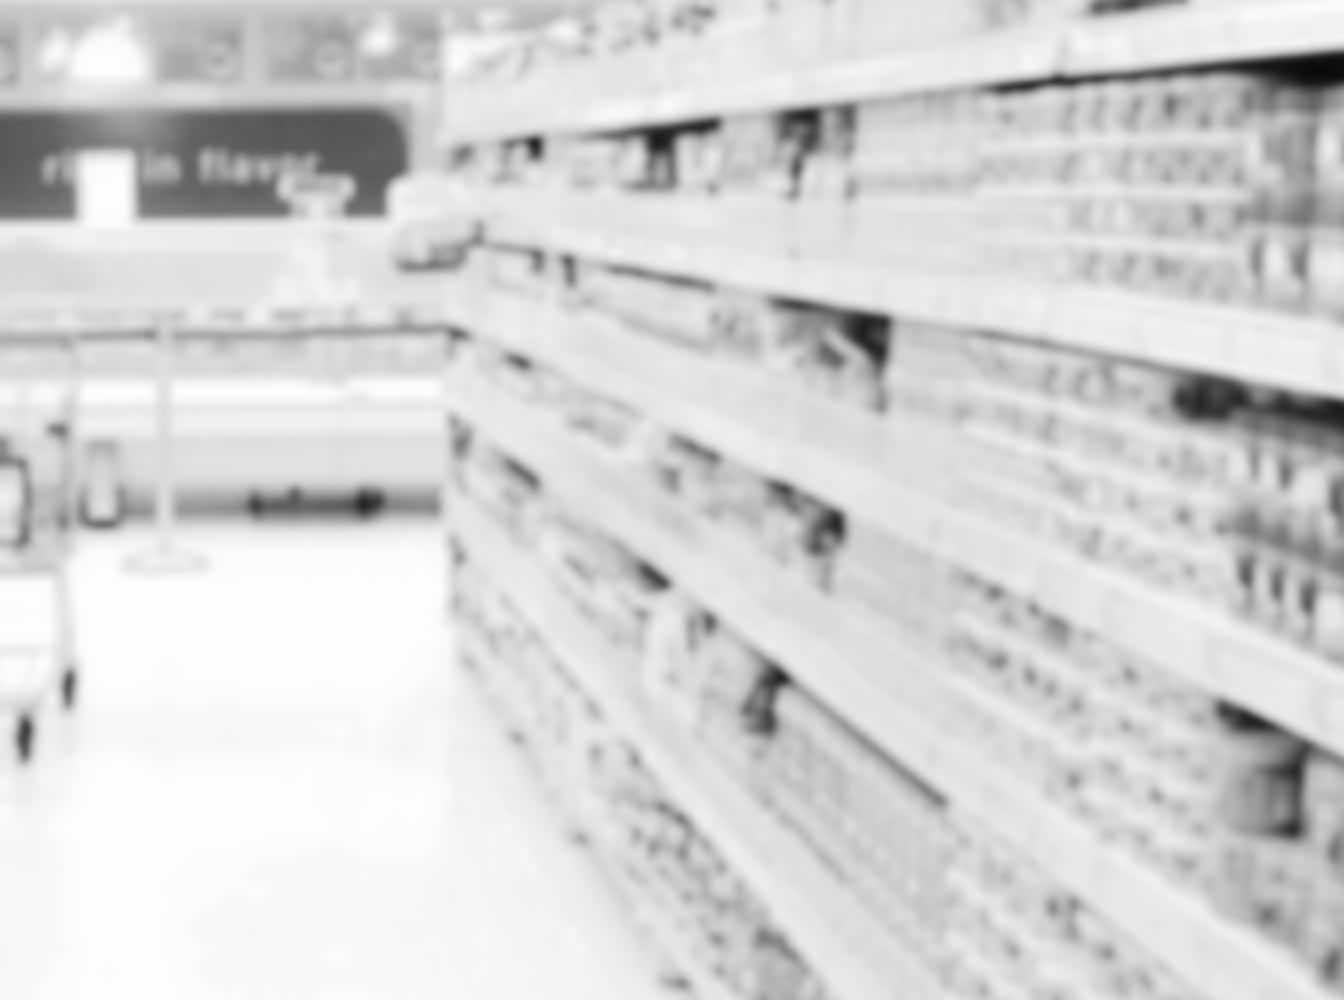
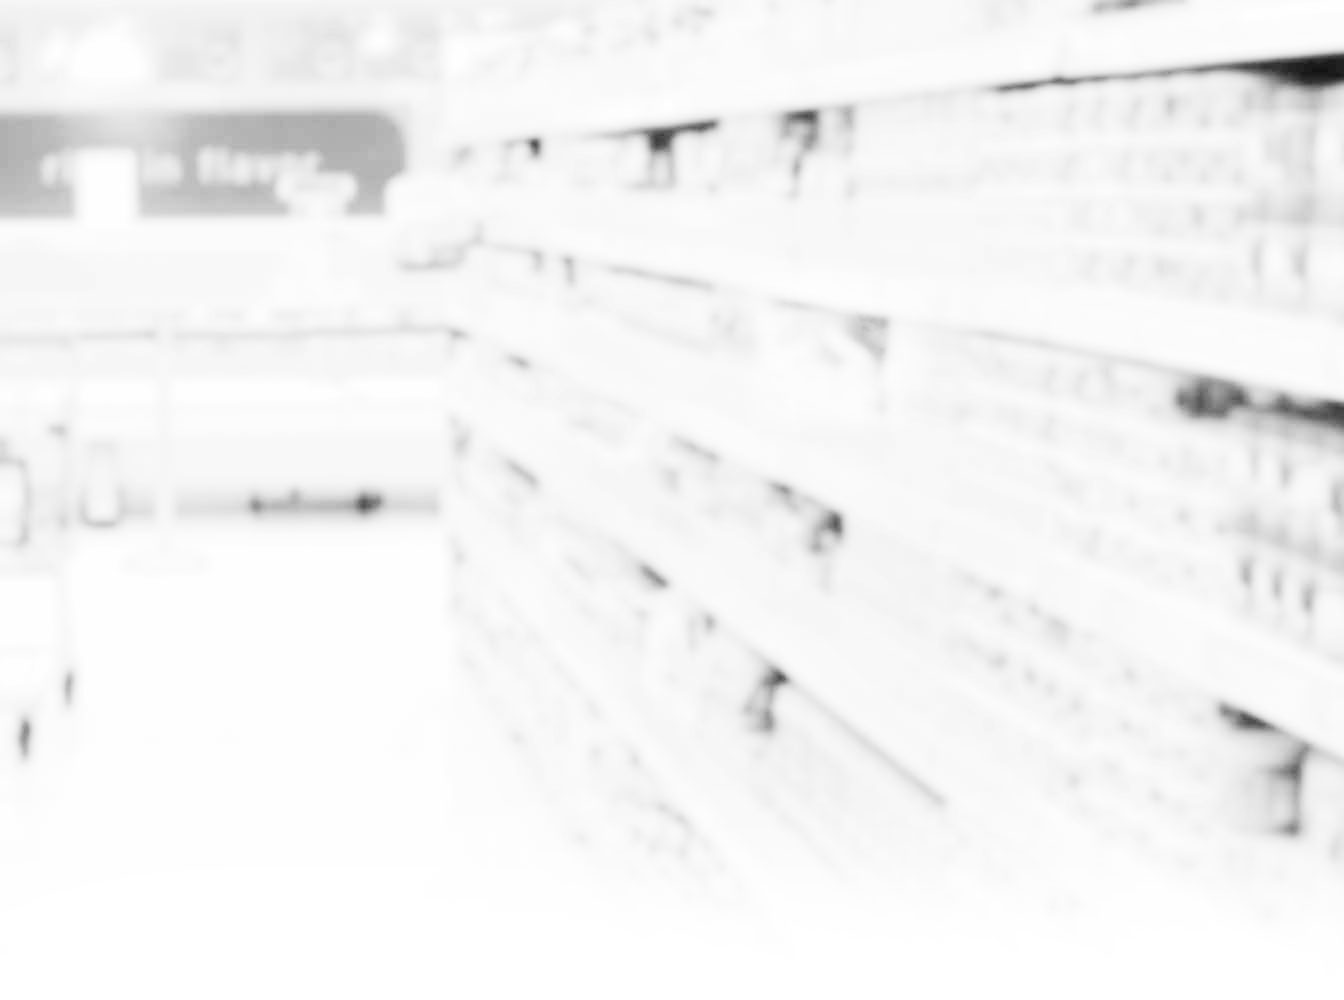
finished 404 page

diff --git a/dot com/css/styles.css b/dot com/css/styles.css
@@ -289,7 +289,7 @@
 
 	/* HOMEPAGE */
 
-		body.index {
+		body.index, body.error-404 {
 			background: url('../img/bg1.jpg') #fff no-repeat fixed;
 			background-size: 100%;
 		}
@@ -490,6 +490,66 @@
 		#videos article { display: block; float: left; margin: 24px auto; }
 
 
+	/* ERROR PAGES */
+
+		div.aisle { 
+			text-align: center;
+			position: relative;
+			top: -50px;
+			z-index: 10;
+		}
+		.aisle-header {
+			display: block;
+			display: block;
+			width: 400px;
+			height: 202px;
+			margin: auto;
+			text-indent: -900%;
+		}
+			#aisle-404 {
+				background: url('../img/error-404.png') center center no-repeat;
+				background-size: 400px;
+			}
+		.error-page h2 { 
+			background: #026951;
+			width: 400px;
+			padding: 12px 24px;
+			border: 1px solid #026951;
+			color: #fff;
+			margin: auto;
+			font-size: 1.2em;
+			box-shadow: 0 2px 2px rgba(0,0,0,0.3);
+			position: relative;
+			top: -50px;
+		}
+
+		.error-page p.explained { margin: 24px; text-align: center; font-size: 1.25em; margin-top: -20px; }
+
+
+	/* body search */
+
+		#site_search { 
+			border: 1px solid #666;
+			background: url('../img/searchicon.png') 12px center no-repeat #fff;
+			padding: 24px 24px 24px 48px;
+			margin: 0 8px 0 0;
+			font-size: 2em;
+		}
+			#site_search:focus { border: 2px solid #666; }
+		.body-search .button { 
+			border-color: #666;
+			padding-top: 10px;
+			font-size: 2em;
+			height: 50px;
+			background: #b3181d;
+		}
+			.body-search .button:hover, .body-search .button-active { background: #8c0f0f; border: 2px solid #666; height: 51px; }
+
+		body.error #main-footer {
+			background: 0; border: 0;
+		}
+
+
 
 
 
@@ -511,7 +571,13 @@
 /* ========================================== */
 
 @media only screen and (-webkit-min-device-pixel-ratio: 2) { 
+	body.error-404 div.aisle #aisle-404 {
+		background: url('../img/error-404@2x.png') center center no-repeat;
+		background-size: 400px;
+	}
+	#error-404 div.aisle img { visibility: hidden;}
 
+	#site_search { background: url('../img/searchicon@2x.png') 12px center no-repeat #fff; background-size: 17px; }
 }
 
 @media only screen and (device-width: 320px) and (-webkit-min-device-pixel-ratio: 2) {

diff --git a/dot com/js/scripts.js b/dot com/js/scripts.js
@@ -1,7 +1,67 @@
-<!DOCTYPE HTML PUBLIC "-//IETF//DTD HTML 2.0//EN">
-<html><head>
-<title>404 Not Found</title>
-</head><body>
-<h1>Not Found</h1>
-<p>The requested URL /~camille/Save22-UIUX-Assets/dot com/js/scripts.js was not found on this server.</p>
-</body></html>
+/*
+Bones Scripts File
+Author: Eddie Machado
+*/
+
+// IE8 ployfill for GetComputed Style (for Responsive Script below)
+if (!window.getComputedStyle) {
+    window.getComputedStyle = function(el, pseudo) {
+        this.el = el;
+        this.getPropertyValue = function(prop) {
+            var re = /(\-([a-z]){1})/g;
+            if (prop == 'float') prop = 'styleFloat';
+            if (re.test(prop)) {
+                prop = prop.replace(re, function () {
+                    return arguments[2].toUpperCase();
+                });
+            }
+            return el.currentStyle[prop] ? el.currentStyle[prop] : null;
+        }
+        return this;
+    }
+}
+
+// as the page loads, call these scripts
+jQuery(document).ready(function($) {
+    
+    /* getting viewport width */
+    var responsive_viewport = $(window).width();
+    
+    /* if is below 481px */
+    if (responsive_viewport < 768) {
+        
+    } /* end smallest screen */
+    
+    /* if is larger than 481px */
+    if (responsive_viewport > 481) {
+        
+    } /* end larger than 481px */
+    
+    /* if is above or equal to 768px */
+    if (responsive_viewport >= 768) {
+    
+    }
+    
+    /* off the bat large screen actions */
+    if (responsive_viewport > 1030) {
+
+    }
+
+
+
+    /* FULL WIDTH PAGES */
+
+    fullheight('.error-page');
+
+}); /* end of as page load scripts */
+
+
+function fullheight(div_name) {
+
+    var header_height = $('#main-header').outerHeight(),
+        footer_height = $('#main-footer').outerHeight(),
+        window_height = $(window).height(),
+        content_total = window_height - (header_height + footer_height);
+
+    $(div_name).css('height', content_total + 'px');
+}

diff --git a/dot com/error-404.php b/dot com/error-404.php
@@ -2,13 +2,31 @@
    
 <div id="content">
 
-<div id="contact" class="segment">
+<div id="error-404" class="error-page segment">
    <div class="row">
       <div class="twelve columns">
+         <div class="aisle">
+            <h1 class="aisle-header" id="aisle-404">404</h1>
+         </div>
 
-         <h2>Bummer. <br>We couldn't find the page you were looking for.</h2>
+            <h2>The page cannot be found</h2>
 
+               <p class="explained">
+                  The page you are looking for might not exist yet. Do you want to look for something else?
+               </p>
 
+         <div class="body-search">
+            <form>
+               <div class="row collapse">
+                 <div class="ten mobile-three columns">
+                   <input type="text" id="site_search" />
+                 </div>
+                 <div class="two mobile-one columns">
+                   <a class="button expand postfix">Search</a>
+                 </div>
+               </div>
+            </form>
+         </div>  
 
       </div>
    </div><!-- row -->

diff --git a/dot com/functions.php b/dot com/functions.php
@@ -7,7 +7,10 @@ function page_class(){
    $parts = $parts[count($parts) - 1];
    $class = basename($parts, ".php"); 
    echo $class;
-   
+
+   if ($class == 'error-404') {
+      echo ' fullheight error';
+   }
 }
 
 
